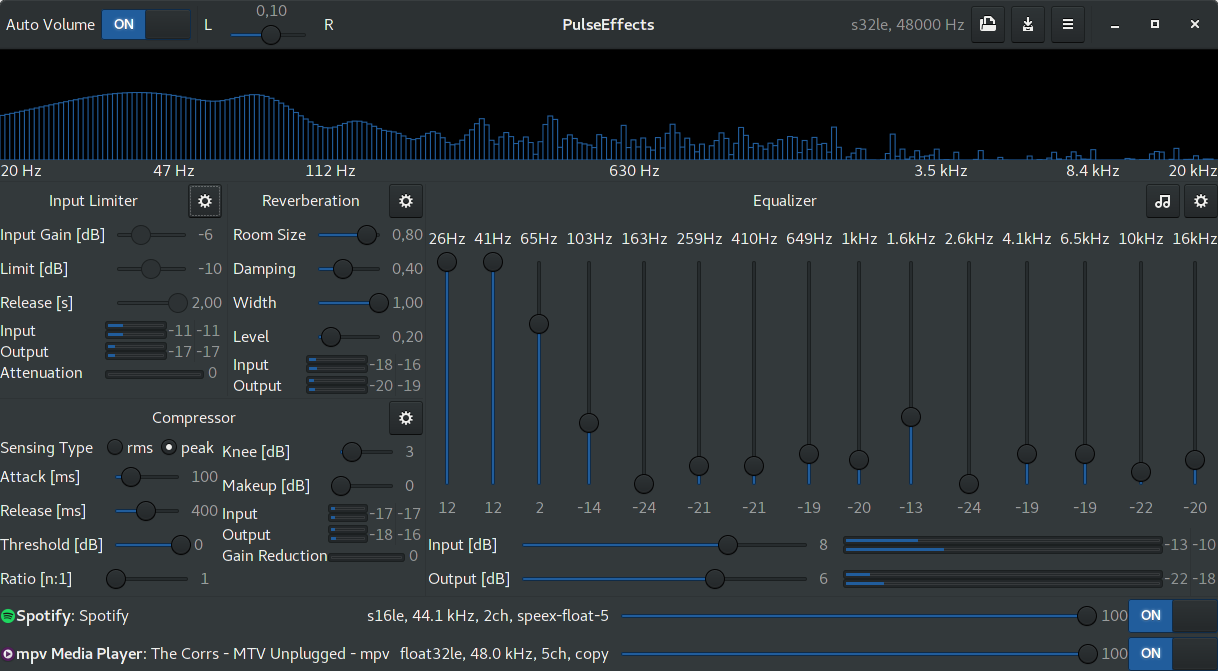
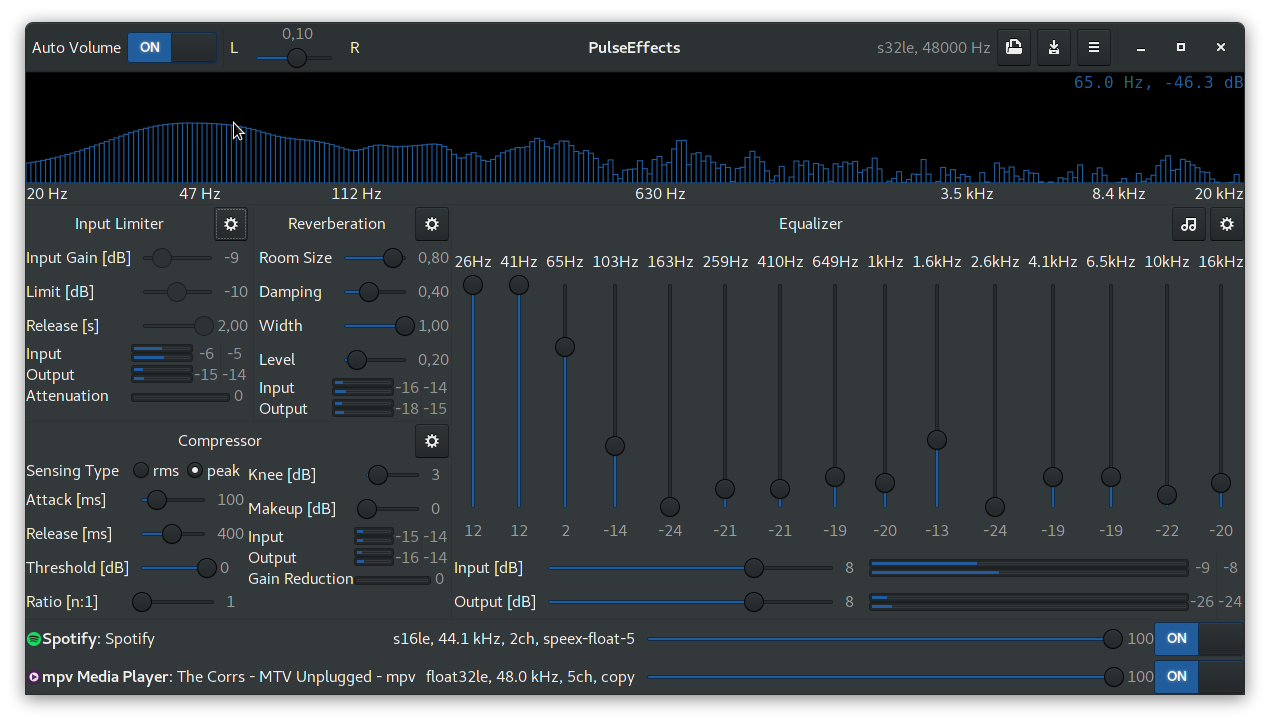
updated readme images

Changed region(s): [[0.0, 0.0, 1.0, 1.0], [0.8112, 0.6557, 0.8424, 0.6855], [0.2808, 0.6557, 0.312, 0.6855]]

diff --git a/PulseEffects/spectrum.py b/PulseEffects/spectrum.py
@@ -137,7 +137,7 @@ class Spectrum():
         # frequency axis is logarithmic
         # 20 Hz = 10^(1.3), 20000 Hz = 10^(4.3)
 
-        self.mouse_freq = round(10**(1.3 + event_motion.x * 3.0 / width), 0)
+        self.mouse_freq = round(10**(1.3 + event_motion.x * 3.0 / width), 1)
 
         # intensity scale is in decibel
         # minimum intensity is -100 dB and maximum is 0 dB
